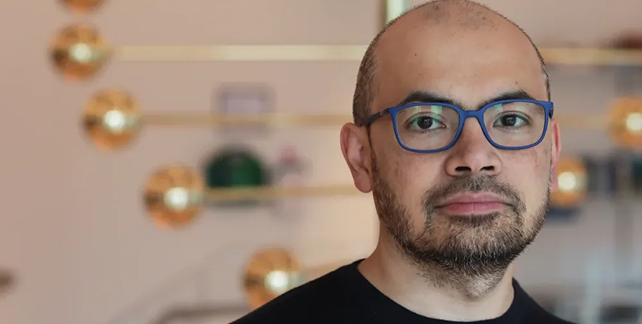
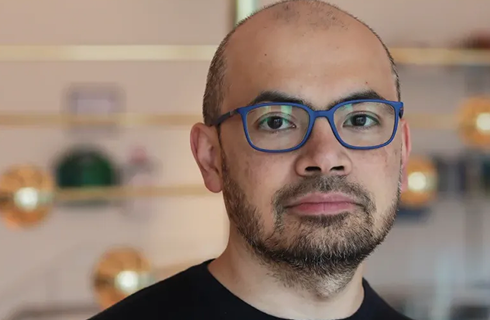
added the meet the speakers section

diff --git a/style.css b/style.css
@@ -100,3 +100,62 @@
     transform:translateY(-200px);
 }
 
+.speakers{
+    width: 85%;
+    max-width: 1200px;
+    margin: 45px auto;
+}
+
+.speakers h2{
+    text-align: center;
+    font-size: 55px;
+    font-weight: 800;
+    margin-bottom: 50px;
+}
+
+.speaker-container{
+    display: grid;
+    grid-template-columns: repeat(2, 1fr);
+    gap: 20px;
+}
+
+.speaker-card{
+    background: #fff;
+    border: 1px solid #e5e7eb;
+    border-radius: 10px;
+    overflow: hidden;
+    transition: .3s;
+}
+
+.speaker-card:hover{
+    transform: translateY(-8px);
+    box-shadow: 0 10px 30px rgba(0,0,0,0.12);
+}
+
+.speaker-card img{
+    width: 100%;
+    height: 300px;
+    object-fit: cover;
+}
+
+.info{
+    padding: 22px;
+}
+
+.info span{
+    color: #2563eb;
+    font-size: 17px;
+    font-weight: 900px;
+    letter-spacing: 1px;
+}
+
+.info h3{
+    margin: 10px 0 8px;
+    font-size: 25px;
+    color: #111827;
+}
+
+.info p{
+    color: #6b7280;
+    font-size: 17px;
+}

diff --git a/index.html b/index.html
@@ -38,5 +38,49 @@
         </div>
         </div>
     </section>
+
+    <!--Meet the speaker section-->
+    <section class="speakers">
+        <h2>Meet the Speakers</h2>
+
+        <div class="speaker-container">
+            <div class="speaker-card">
+                <img src="assets/andrej.png" alt="andrej">
+                <div class="info">
+                <span>AI/ML</span>
+                <h3>Andrej Karpathy</h3>
+                <p>Pretraining team, Anthropic</p>
+                </div>
+            </div>
+
+            <div class="speaker-card">
+                <img src="assets/demis.png" alt="demis">
+                <div class="info">
+                <span>CLOUD & DEVOPS</span>
+                <h3>Demis Hassabis</h3>
+                <p>Co-Founder and CEO, Google DeepMind</p>
+                </div>
+            </div>
+
+            <div class="speaker-card">
+                <img src="assets/gary.png" alt="gary">
+                <div class="info">
+                <span>FRONTEND</span>
+                <h3>Gary Marcus</h3>
+                <p>Staff Engineer, Vercel</p>
+                </div>
+            </div>
+
+            <div class="speaker-card">
+                <img src="assets/mustafa.png" alt="mustafa">
+                <div class="info">
+                <span>SECURITY</span>
+                <h3>Mustafa Suleyman</h3>
+                <p>CEO of Microsoft AI</p>
+                </div>
+            </div>
+        </div>
+        
+    </section>
 </body>
 </html>